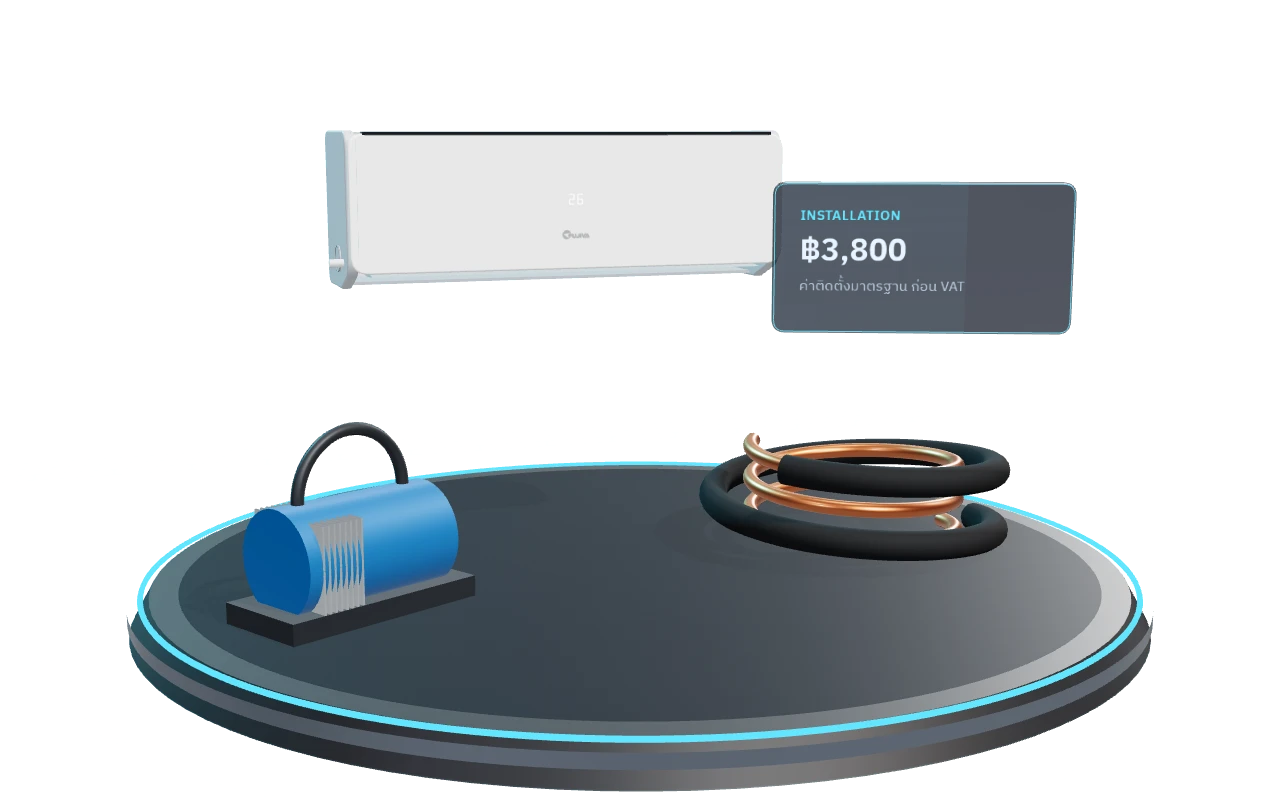
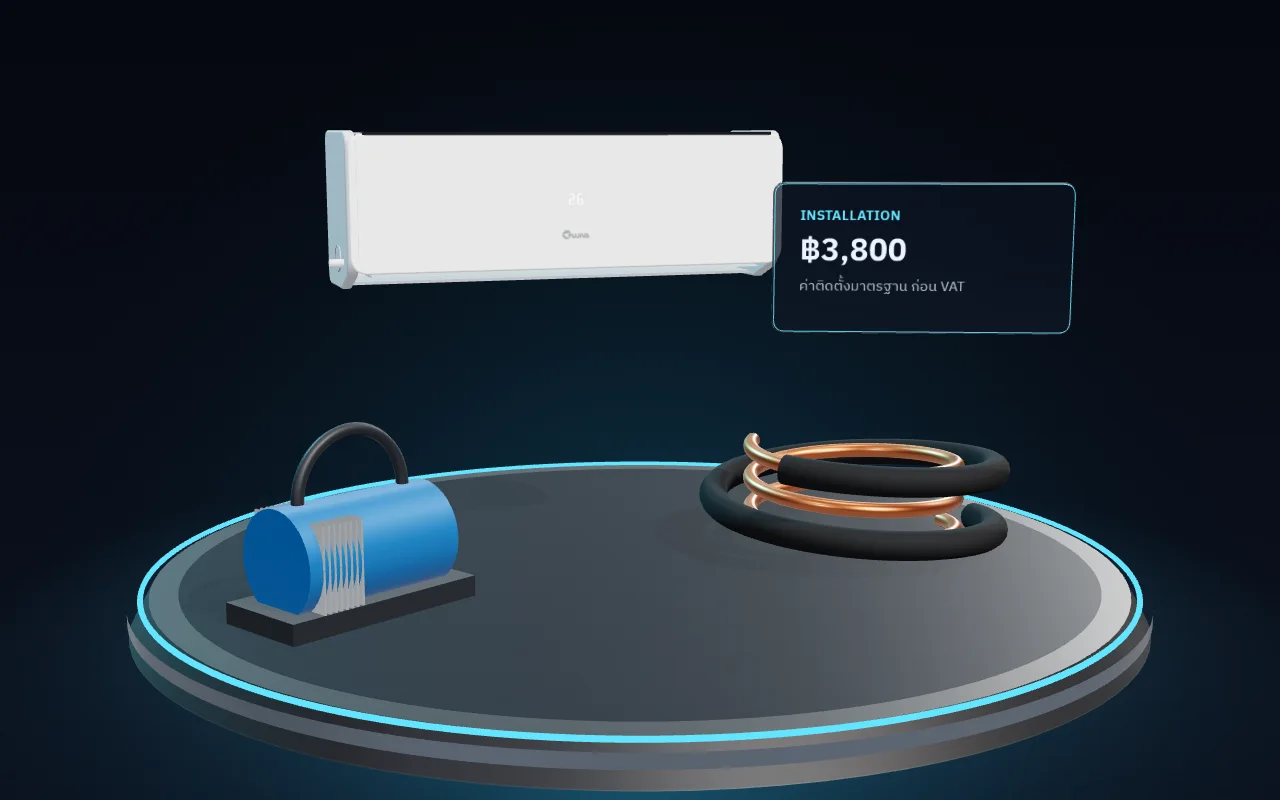
Rev.43: opaque studio stills, lite tester packs, aislots test fix
Claude-Session: https://claude.ai/code/session_016WYUr8vFNDvJfEwBTE8cqz

diff --git a/sbp-aircare/assets/vignette3d.js b/sbp-aircare/assets/vignette3d.js
@@ -240,8 +240,8 @@ function studio(theme, accent, force) {
 
     function render(k, info, view = 0, size = null) {
       if (size) { r.setSize(size[0], size[1], false); cam.aspect = size[0] / size[1]; } else { r.setSize(W, H, false); cam.aspect = W / H; } cam.updateProjectionMatrix();
-      scene.background = size ? backdrop : null;   // sized renders are film frames: opaque
-      if (backGlow) backGlow.visible = !size;
+      scene.background = backdrop;   // Rev.43: opaque studio backdrop for stills and film frames alike (smaller files, photo-like)
+      if (backGlow) backGlow.visible = false;
       seed = 7 + k.length * 131 + k.charCodeAt(k.length - 1);
       Object.keys(I).forEach(x => delete I[x]); Object.assign(I, info || {});
       const g = new THREE.Group(); S[k](g);
@@ -260,7 +260,7 @@ function studio(theme, accent, force) {
       scene.remove(g); g.traverse(o => { if (o.isMesh) { o.geometry.dispose(); const ms = Array.isArray(o.material) ? o.material : [o.material]; ms.forEach(m => { if (m.map && m.map.isCanvasTexture) m.map.dispose(); }); } });
       return new Promise(res => {
         const done = blob => { if (!blob || blob.size < 6000) return res(null); const fr = new FileReader(); fr.onload = () => res(fr.result); fr.onerror = () => res(null); fr.readAsDataURL(blob); };
-        try { cv.toBlob(bl => (bl && bl.type === 'image/webp') ? done(bl) : cv.toBlob(done, 'image/png'), 'image/webp', 0.9); } catch (e) { res(null); }
+        try { cv.toBlob(bl => (bl && bl.type === 'image/webp') ? done(bl) : cv.toBlob(done, 'image/png'), 'image/webp', 0.84); } catch (e) { res(null); }
       });
     }
     return { render, soft, has: k => !!S[k], dispose() { pm.dispose(); r.dispose(); r.forceContextLoss(); } };

diff --git a/sbp-aircare/assets/aiart.js b/sbp-aircare/assets/aiart.js
@@ -30,7 +30,7 @@ export function aiFill(host, key, { label = 'ภาพประกอบ (AI)' }
 }
 /** put one picture or film { src, kind, poster } into `host` (used by AI slots and by the pre-rendered 3D film) */
 export function fillMedia(host, a, label) {
-  if (!host || !a) return false;
+  if (!host || !a || !a.src) return false;
   if (host.querySelector(':scope > .ai-fill')) return true;
   {
     let el;

diff --git a/sbp-aircare/build.py b/sbp-aircare/build.py
@@ -197,7 +197,10 @@ pv = re.sub(r'<link rel="stylesheet" href="assets/([\w.-]+\.css)">', lambda m: f
 _packs = {}
 def pack(v):
     # one gzip+base64 pack per design, shared by the testers and the showcase
-    if v not in _packs: _packs[v] = f'<script type="application/octet-stream" id="pack-{v}">' + base64.b64encode(gzip.compress(links(built[v], 'embed', v).encode(), 9)).decode() + '</script>'
+    # Rev.43: the testers / showcase embed every design at once — drop the pre-rendered stills and films there (each design's own
+    # page keeps them; inside the tester the pictures render live or show the line art) so the hub pages stay under 16 MB
+    lite = lambda h: re.sub(r'data:(?:image/webp|video/mp4);base64,[A-Za-z0-9+/=]{2000,}', '', h)
+    if v not in _packs: _packs[v] = f'<script type="application/octet-stream" id="pack-{v}">' + base64.b64encode(gzip.compress(lite(links(built[v], 'embed', v)).encode(), 9)).decode() + '</script>'
     return _packs[v]
 def tester(pv, vs, hub):
     packs = ''.join(pack(v) for v in vs)
